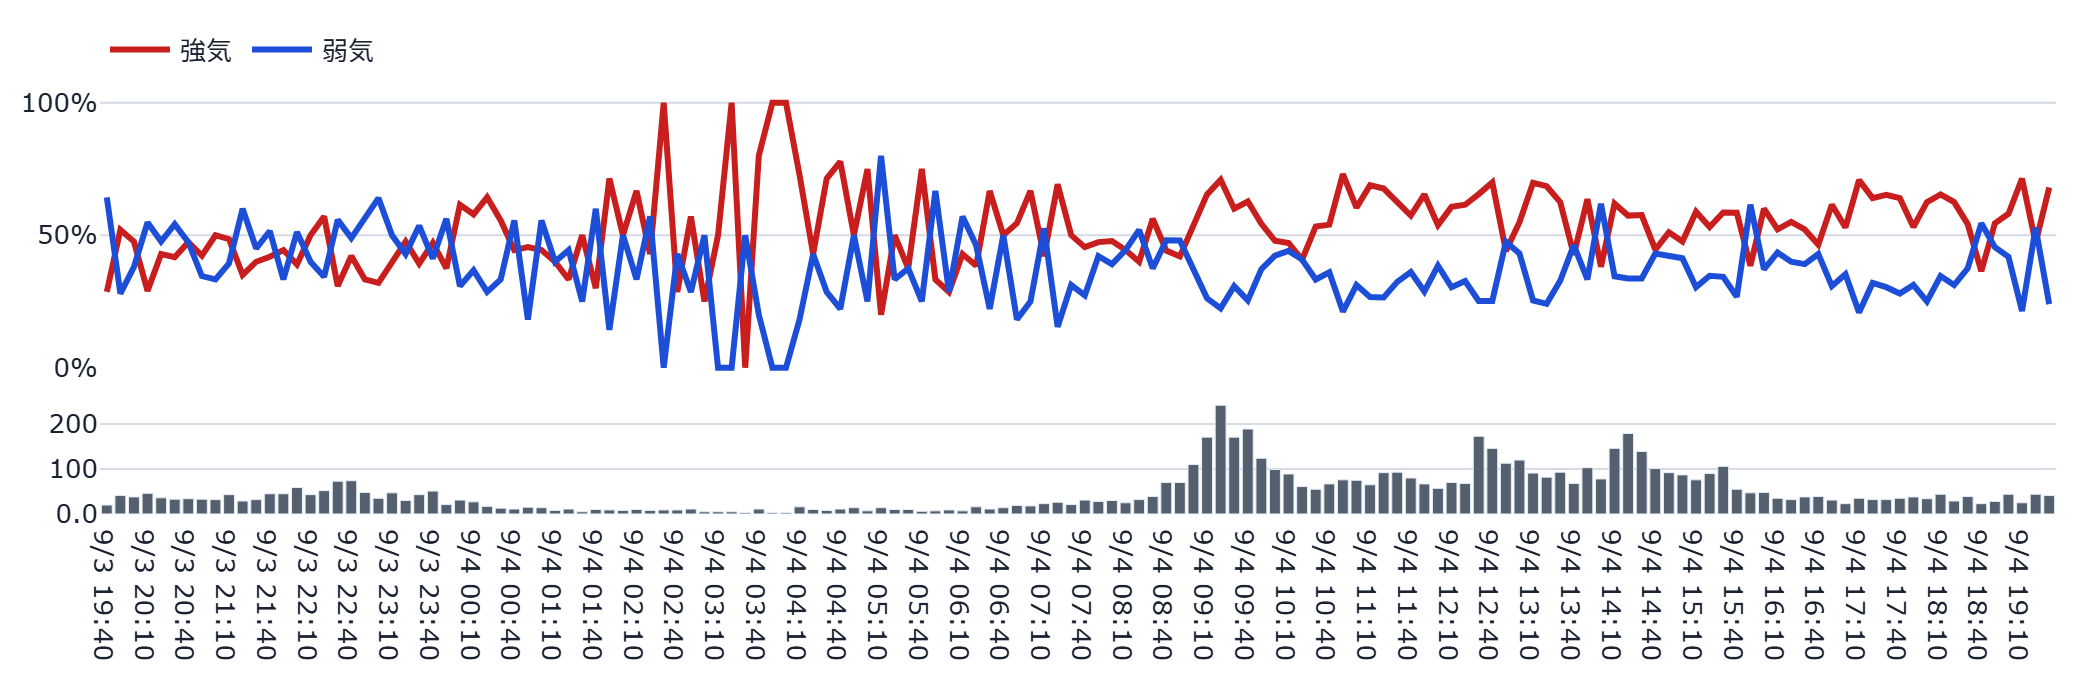
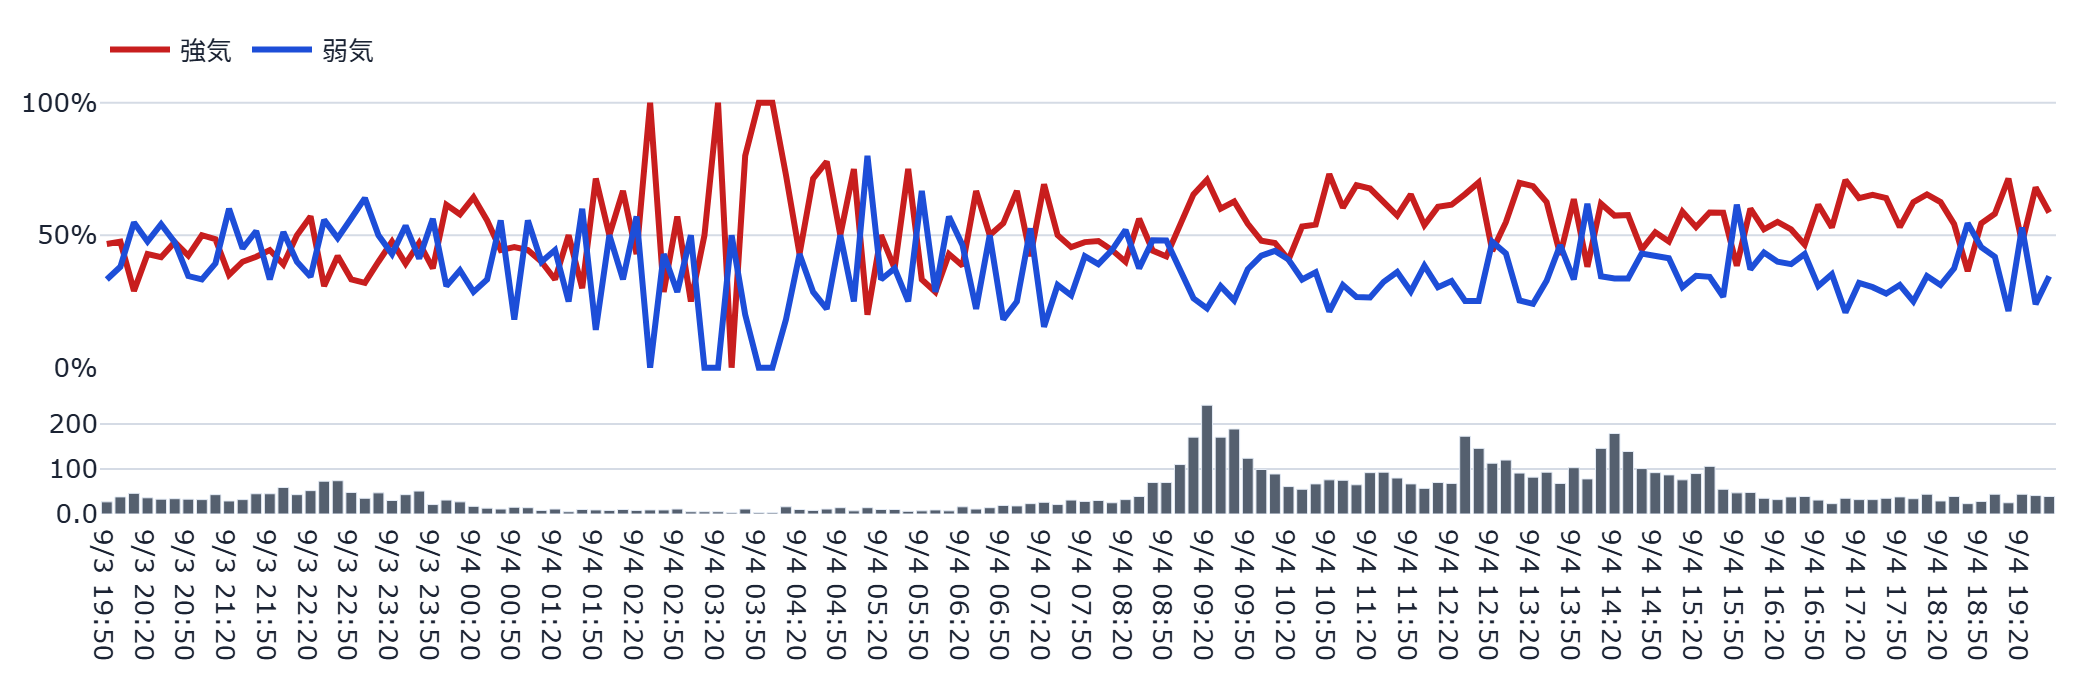
auto: refresh static dashboard (2026-09-04 19:56:47 JST)

diff --git a/docs/index.html b/docs/index.html
@@ -116,11 +116,11 @@
         <span class="price">54,460円</span>
         <span class="chg" style="color:#C81E1E">+5.40%</span>
       </div>
-      <p class="caption">更新時刻: 2026-09-04T19:45:12（データは1分間隔で自動生成され、このページも
+      <p class="caption">更新時刻: 2026-09-04T19:54:58（データは1分間隔で自動生成され、このページも
       60秒毎に自動再読み込みされます）</p>
       
-      <p id='visit-count-badge' class='caption'>👀 累計閲覧数: 2,532</p>
-      <p id='like-button-wrap' class='caption'><button id='like-button' type='button' style='cursor:pointer;border:1px solid var(--border);border-radius:6px;padding:1px 10px;margin-right:6px;background:var(--panel);color:var(--text);font-size:1em;vertical-align:middle'>👍</button><span id='like-count-label'>このダッシュボードが役に立ったら押してください（累計 2 いいね）</span></p>
+      <p id='visit-count-badge' class='caption' style='display:none'></p>
+      <p id='like-button-wrap' class='caption' style='display:none'></p>
 
       <h2>🔥😱 2大メーター・ボラレジーム</h2>
       <div class="grid3">
@@ -197,20 +197,22 @@
       
 
       <h2>🤖 AI考察</h2>
-      <div class='metric-row'><div class='metric-card'><div class='metric-label'>株価</div><div class='metric-value'>54,460円</div><div class='metric-delta'>+0円</div></div><div class='metric-card'><div class='metric-label'>強気比率</div><div class='metric-value'>58.6%</div><div class='metric-delta'>+0.1pt</div></div><div class='metric-card'><div class='metric-label'>弱気比率</div><div class='metric-value'>33.4%</div><div class='metric-delta'>-0.1pt</div></div></div><p class='caption'>前回集計(2026-09-04T19:35:59)との比較</p>
-      <div class='ai-box'>本日の取引終了時点におけるキオクシアホールディングス（285A）の掲示板センチメントを分析します。<br>
+      <div class='metric-row'><div class='metric-card'><div class='metric-label'>株価</div><div class='metric-value'>54,460円</div><div class='metric-delta'>+0円</div></div><div class='metric-card'><div class='metric-label'>強気比率</div><div class='metric-value'>58.6%</div><div class='metric-delta'>+0.0pt</div></div><div class='metric-card'><div class='metric-label'>弱気比率</div><div class='metric-value'>33.4%</div><div class='metric-delta'>+0.0pt</div></div></div><p class='caption'>前回集計(2026-09-04T19:45:12)との比較</p>
+      <div class='ai-box'>本日の取引終了時点におけるキオクシアホールディングス（285A）の掲示板センチメントデータに基づき、客観的な分析を記述します。<br>
 <br>
-本日の終値は前日比+5.4%と大幅な上昇を見せ、強気比率は58.6%に達しました。直近の日次推移を振り返ると、8月後半から9月初旬にかけては価格の上下に伴い強気・弱気比率が激しく変動していましたが、本日の急騰を受けてセンチメントは明確な強気の方向へとシフトしています。特筆すべきは、前営業日からの変化として「灼熱メーター（過熱）」がOKから警戒へ移行している点です。これは価格の上昇速度に対し、掲示板上の反応が急速にポジティブな方向に傾いたことを示唆していますが、一方でイナゴ語彙や暴落煽り語彙などの指標は依然として平常範囲内にあることから、現時点では「熱狂的な高揚感」というよりは、急騰に対する「事実確認を伴う強気の反応」が先行している状態と推察されます。<br>
+本日の終値は前日比+5.4%と大幅な上昇を見せました。この価格動向に呼応するように、強気比率は58.6%まで上昇しており、直近の日次推移と比較すると非常に顕著な変化が見て取れます。特に、8月後半から9月上旬にかけては強気・弱気の比率が拮抗、あるいは弱気が優勢な局面が続いていましたが、本日の急騰によってセンチメントが急速に「強気」へとシフトしたことがデータから読み取れます。<br>
 <br>
-また、投稿数についてはzスコアが負の値をとり「話題枯れ」に警戒が出ていますが、これは投稿量の絶対的な減少というよりも、特定の熱狂的な動き（サージ）が落ち着き、より落ち着いたトーンでの議論に移っている過程にあると考えられます。ボラティリティ・レジームは現在calibrating（較正中）となっており、急激な価格変動に対する市場のボラティリティ指標が確定する前の段階にあります。この不安定なレジーム下において、強気比率が高止まりしていることは、短期的な値動きに対する投資家の心理的反応が非常に敏感であることを示しています。<br>
+特筆すべきは、過熱度スコアが前回取引日からの変化で「OK」から「警戒」へ移行している点です。価格の急上昇に伴い、掲示板上での期待感が高まっていることを示唆していますが、一方で「話題枯れ」の指標も警戒水準にあり、投稿数自体は統計的にやや閑散とした状態にあることがわかります。このことから、熱狂的な大量投稿が溢れかえっているというよりは、価格上昇を好意的に捉える層が一定数存在しつつも、まだ広範な層へ話題が拡散・定着する前の段階にあると推測されます。また、イナゴ語彙や暴落煽り等の指標が平常範囲内であることは、現在の強気センチメントが極端な熱狂やパニックによるものではなく、比較的落ち着いたトーンで形成されている可能性を示しています。<br>
 <br>
-直近数分間の推移では、価格や強気比率に大きな変化はなく、投稿数がわずかに増加しているのみであり、本日の取引終了時点でのセンチメントは安定した強気の域で着地しました。なお、PTS（私設取引システム）では現在値より高い水準で推移しており、翌営業日の寄り付きに向けた参考情報として意識される可能性があります。<br>
+ボラティリティのレジーム帯は現在「calibrating（較正中）」となっており、急激な価格変動に対する市場の反応をシステムが捉えようとしている段階です。この不安定なレジーム下において、強気比率の上昇と過熱度の警戒への移行は整合性が高く、本日の大幅な値動きに対する投資家の心理的反応を素直に反映していると言えます。<br>
 <br>
-※この分析は掲示板の集計センチメントデータに基づくものであり、投資助言ではありません。</div><p class='caption'>生成時刻: 2026-09-04T19:45:12</p>
+なお、取引時間外のPTSでは現在値がさらに上昇しており、翌営業日の寄り付きに向けた期待感が継続している状況が見て取れます。<br>
+<br>
+※この分析は掲示板の集計センチメントデータに基づくものであり、投資助言ではありません。</div><p class='caption'>生成時刻: 2026-09-04T19:54:58</p>
 
       <hr style="border:none;border-top:1px solid var(--border);margin:2rem 0 1rem">
       <p class="caption">⚠ 本情報は掲示板投稿を統計的に集計したものであり、投資助言ではありません。個別の投稿内容は含まれていません。研究・エンタメ用途です。</p>
-      <footer>生成: generate_static_dashboard.py（2026-09-04T19:54:49） /
+      <footer>生成: generate_static_dashboard.py（2026-09-04T19:56:30） /
       画像バックエンド: plotly+kaleido</footer>
     </div>
     <script>(function(){var url="https://script.google.com/macros/s/AKfycbwgSSGQ2n56ohmIYKlNDA1Xe3D8hd3GJbD0U90L4DGtXdb8pqrPokNMHJWjvN1__7bE/exec";var KEY='bbs_visit_counted';var already=sessionStorage.getItem(KEY);var action=already?'read':'hit';var ctrl=(typeof AbortController!=='undefined')?new AbortController():null;var timer=ctrl?setTimeout(function(){ctrl.abort();},5000):null;fetch(url+'?action='+action,{signal:ctrl?ctrl.signal:undefined}).then(function(r){if(timer)clearTimeout(timer);return r.json();}).then(function(data){if(!already)sessionStorage.setItem(KEY,'1');if(data&&typeof data.count==='number'){var el=document.getElementById('visit-count-badge');if(el){el.textContent='\u{1F440} \u7d2f\u8a08\u95b2\u89a7\u6570: '+data.count.toLocaleString();el.style.display='';}}}).catch(function(e){if(timer)clearTimeout(timer);console.warn('visit counter fetch failed (fail-soft):',e);});})();</script><script>(function(){var url="https://script.google.com/macros/s/AKfycbwgSSGQ2n56ohmIYKlNDA1Xe3D8hd3GJbD0U90L4DGtXdb8pqrPokNMHJWjvN1__7bE/exec";var KEY='bbs_liked';var btn=document.getElementById('like-button');var label=document.getElementById('like-count-label');if(!btn||!label)return;function renderLiked(count){btn.disabled=true;btn.style.cursor='default';btn.style.opacity='0.6';btn.textContent='\u2705';label.textContent="\u3044\u3044\u306d\u3057\u307e\u3057\u305f\uff01"+(typeof count==='number'?"\uff08\u7d2f\u8a08 "+count.toLocaleString()+" \u3044\u3044\u306d\uff09":'');}if(localStorage.getItem(KEY)){renderLiked(null);}btn.addEventListener('click',function(){if(localStorage.getItem(KEY))return;btn.disabled=true;var ctrl=(typeof AbortController!=='undefined')?new AbortController():null;var timer=ctrl?setTimeout(function(){ctrl.abort();},5000):null;fetch(url+'?action=like_hit',{signal:ctrl?ctrl.signal:undefined}).then(function(r){if(timer)clearTimeout(timer);return r.json();}).then(function(data){localStorage.setItem(KEY,'1');renderLiked(data&&typeof data.count==='number'?data.count:null);}).catch(function(e){if(timer)clearTimeout(timer);btn.disabled=false;console.warn('like button fetch failed (fail-soft):',e);});});})();</script></body></html>
